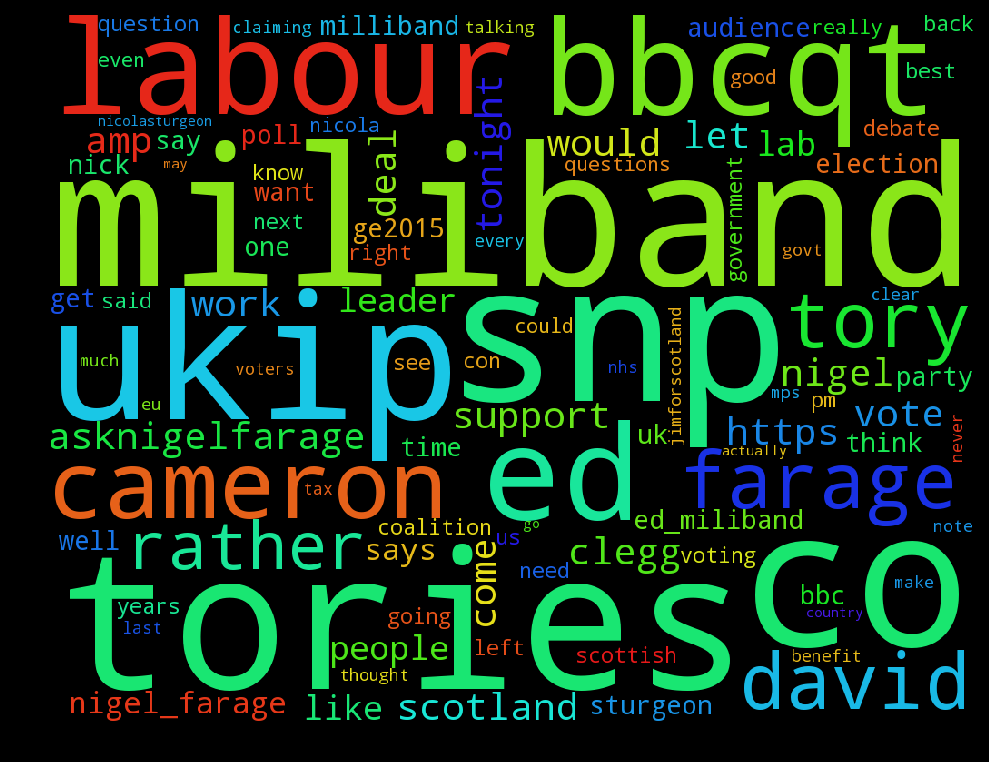
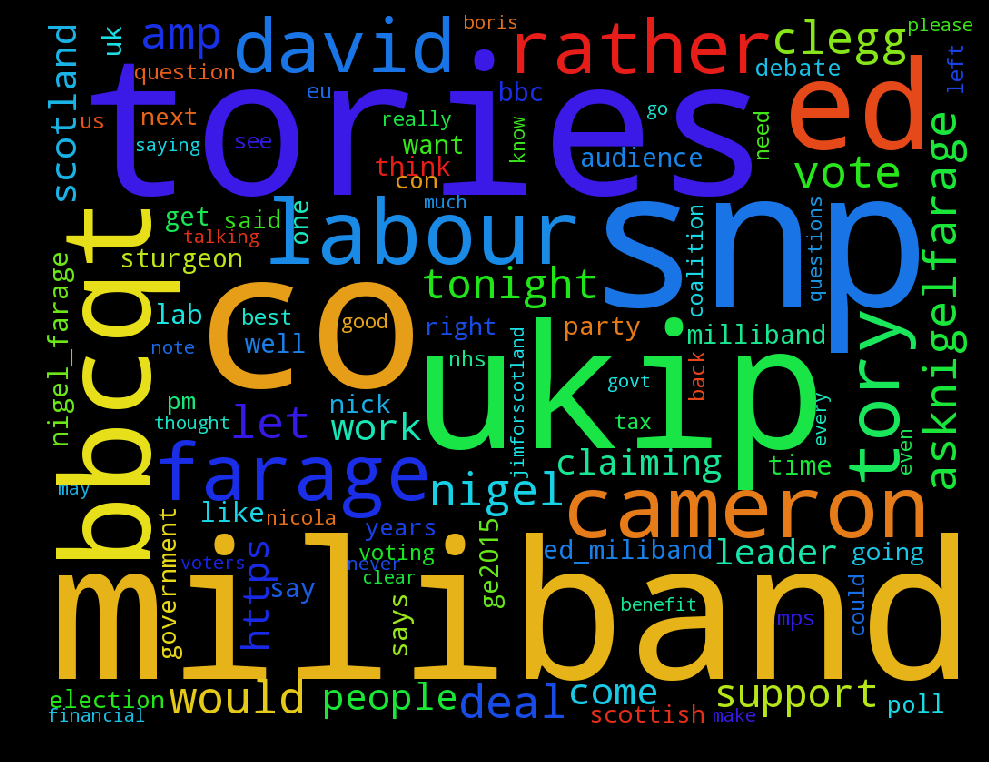
remove stopwords only once

diff --git a/polbotcheck/word_cluster.py b/polbotcheck/word_cluster.py
@@ -6,14 +6,10 @@ from wordcloud import WordCloud
 import matplotlib.pyplot as plt
 
 def calc_frequencies(words, words_n=50, lang='german'):
-    default_stopwords = set(nltk.corpus.stopwords.words(lang))
-    stopwords_file = '../data/stopwords.txt'
-    custom_stopwords = set(open(stopwords_file, 'r').read().splitlines())
-    all_stopwords = default_stopwords | custom_stopwords
     words = [word for word in words if len(word) > 1]
     words = [word for word in words if not word.isnumeric()]
     words = [word.lower() for word in words]
-    words = [word for word in words if word not in all_stopwords]
+    # words = [word for word in words if word not in all_stopwords]
     # Stemming words seems to make matters worse, disabled
     # stemmer = nltk.stem.snowball.SnowballStemmer(lang)
     # words = [stemmer.stem(word) for word in words]
@@ -22,22 +18,23 @@ def calc_frequencies(words, words_n=50, lang='german'):
     return fdist.most_common(words_n)
 
 def get_topic_frequencies(tweets, words_n=50, lang='english'):
-    default_stopwords = nltk.corpus.stopwords.words(lang)
-    vectorizer = TfidfVectorizer(max_df=0.5, min_df=2, stop_words=default_stopwords)
+    default_stopwords = set(nltk.corpus.stopwords.words(lang))
+    stopwords_file = '../data/stopwords.txt'
+    custom_stopwords = set(open(stopwords_file, 'r').read().splitlines())
+    all_stopwords = default_stopwords | custom_stopwords
+    vectorizer = TfidfVectorizer(max_df=0.5, min_df=2, stop_words=list(all_stopwords))
     X = vectorizer.fit_transform(tweets)
-    # print(X)
     terms = vectorizer.get_feature_names()
 
     important_terms = []
     for doc in range(len(tweets)):
-        feature_index = X[doc,:].nonzero()[1]
+        feature_index = X[doc, :].nonzero()[1]
         tfidf_scores = zip(feature_index, [X[doc, x] for x in feature_index])
-        doc_terms =  []
+        doc_terms = []
         for w, s in [(terms[i], s) for (i, s) in tfidf_scores]:
             doc_terms.append((w, s))
         important_terms.append([w for w, _ in sorted(doc_terms, key=lambda x: x[1])][:5])
     important_terms = [item for sublist in important_terms for item in sublist]
-    # print(important_terms)
     topic_frequencies = calc_frequencies(important_terms, words_n=words_n)
     return topic_frequencies
 
@@ -60,7 +57,5 @@ def load_example_data():
 
 if __name__ == "__main__":
     tweets = load_example_data()
-    topic_frequencies = get_topic_frequencies(tweets, words_n=100)
-    print(topic_frequencies)
-
+    topic_frequencies = get_topic_frequencies(tweets, words_n=100, lang='english')
     save_wordcloud(topic_frequencies, 'wordcloud_uk_election.png')

diff --git a/polbotcheck/twitter_api.py b/polbotcheck/twitter_api.py
@@ -6,9 +6,9 @@ import db
 import botornotapi
 from userlist import USERS
 
-auth = tweepy.OAuthHandler(myauth['consumer_key'], myauth['consumer_secret'])
-auth.set_access_token(myauth['access_token'], myauth['access_token_secret'])
-api = tweepy.API(auth, wait_on_rate_limit=True, wait_on_rate_limit_notify=True,\
+AUTH = tweepy.OAuthHandler(myauth['consumer_key'], myauth['consumer_secret'])
+AUTH.set_access_token(myauth['access_token'], myauth['access_token_secret'])
+TWITTER_API = tweepy.API(AUTH, wait_on_rate_limit=True, wait_on_rate_limit_notify=True,\
                          retry_count=3, retry_delay=5, retry_errors=set([401, 404, 500, 503]))
 
 def limit_handled(cursor):
@@ -23,7 +23,7 @@ def limit_handled(cursor):
 def save_tweets_with_retweets(screen_name):
     timestamp = time.strftime("%d.%m.%Y %H:%M:%S", time.localtime())
     print(timestamp)
-    for tweet in limit_handled(tweepy.Cursor(api.user_timeline, id=screen_name, count=200).items()):
+    for tweet in limit_handled(tweepy.Cursor(TWITTER_API.user_timeline, id=screen_name, count=200).items()):
         retweets = get_retweets(tweet.id)
         db.saveRetweets(tweet, retweets)
 
@@ -46,7 +46,7 @@ def get_retweets(tweet_id):
     timestamp = time.strftime("%d.%m.%Y %H:%M:%S", time.localtime())
     print(timestamp)
     retweets = []
-    for retweet in api.retweets(id=tweet_id, count=200):
+    for retweet in TWITTER_API.retweets(id=tweet_id, count=200):
         retweets.append(retweet)
     return retweets
 
@@ -54,7 +54,7 @@ def get_followers(screen_name):
     timestamp = time.strftime("%d.%m.%Y %H:%M:%S", time.localtime())
     print(timestamp)
     followers =[]
-    for user in limit_handled(tweepy.Cursor(twitter_api.followers, screen_name=screen_name, count=200).items()):
+    for user in limit_handled(tweepy.Cursor(TWITTER_API.followers, screen_name=screen_name, count=200).items()):
         followers.append(user)
     return followers
 

diff --git a/polbotcheck/front_back_link.py b/polbotcheck/front_back_link.py
@@ -6,28 +6,24 @@ import numpy as np
 # takes data (that should come from the frontend) and creates the output we would like to have 
 # on the front end.
 
-
-
-
 def follower_botness(username):
 #given a username, it creates the histogram of the botness of the followers 
 #and saves it in plots (for now)  it also returns the probable percentage of follower bots
 #(cutoff needs to be defined, for now it is 0.7)""" 
     cutoff = 0.7
     scorelist = []
-    followers = db.getFollowers(toName=username)   
+    followers = db.getFollowers(toName=username)
     for f in followers:
         follower = f['_from'].split('/')[1]
-        score=db.getUser(follower)['botness']['score']
+        score = db.getUser(follower)['botness']['score']
         scorelist.append(score)
 
     if scorelist:
-        scores = pd.Series(scorelist,name='probability of follower bot') 
+        scores = pd.Series(scorelist, name='probability of follower bot') 
         ax = sns.distplot(scores) 
         fig = ax.get_figure()
         fig.savefig('plots/testfig.png')
-        botpercent = sum(np.array(scorelist)>cutoff)/len(scorelist)
+        botpercent = sum(np.array(scorelist)>cutoff) / len(scorelist)
         return botpercent
     else:
         return None
-
